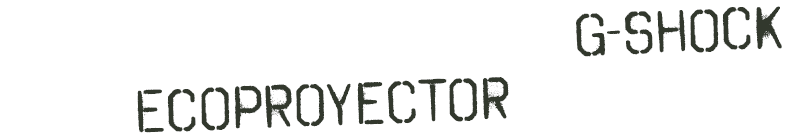
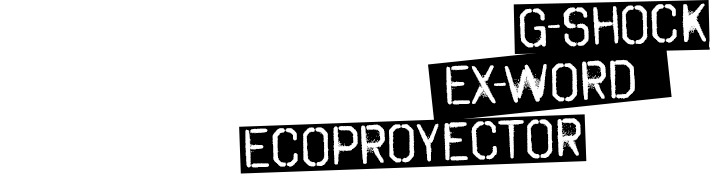
add exword in campaign

diff --git a/index.html b/index.html
@@ -34,7 +34,7 @@
       </div>
       <div class="row">
         <div class="large-6 medium-6 columns">
-          <p>Desde CASIO queremos que termine el año con muy buen pie, por eso sorteamos un lote de nuestros mejores productos.<br><br><b>Hasta el <span class="big-text">31 de diciembre</span>, ¡envíenos el formulario y podrá ganar un reloj <a href="http://bit.ly/gcamu">G-Shock</a> y un <a href="http://bit.ly/promoeco">Ecoproyector Slim</a>!</b></p>
+          <p>Desde CASIO queremos que termine el año con muy buen pie, por eso sorteamos un lote de nuestros mejores productos.<br><br><b>Hasta el <span class="big-text">31 de diciembre</span>, ¡envíenos el formulario y podrá este lote de productos CASIO: un reloj <a href="http://bit.ly/gcamu">G-Shock</a>, un diccionario electrónico <a href="http://bit.ly/sorteo-exW">EX-word</a> y un <a href="http://bit.ly/promoeco">Ecoproyector Slim</a>!</b></p>
           <img src="images/image-promo.png" alt="Reloj G-Shock Special Camo y Ecoproyector Slim" class="stillimg"/>
 
         </div>
